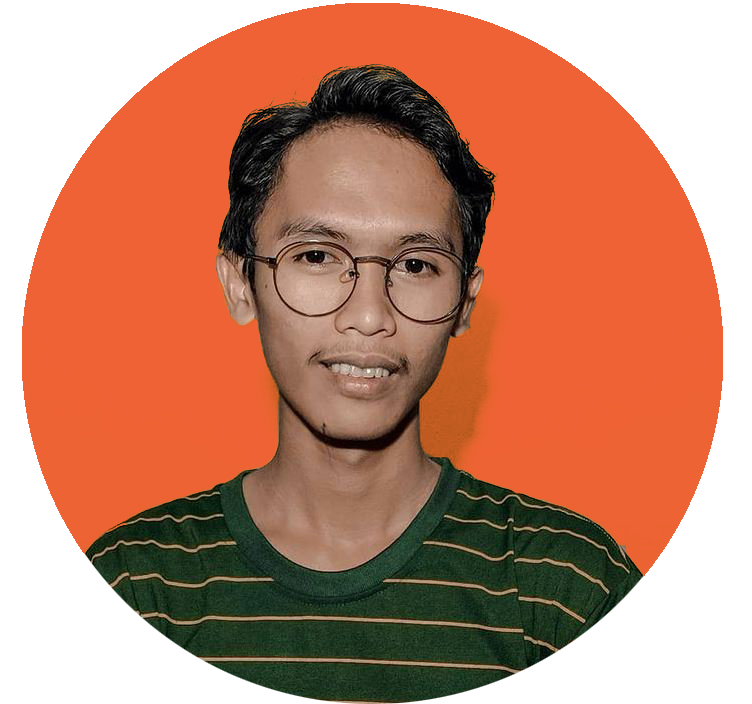
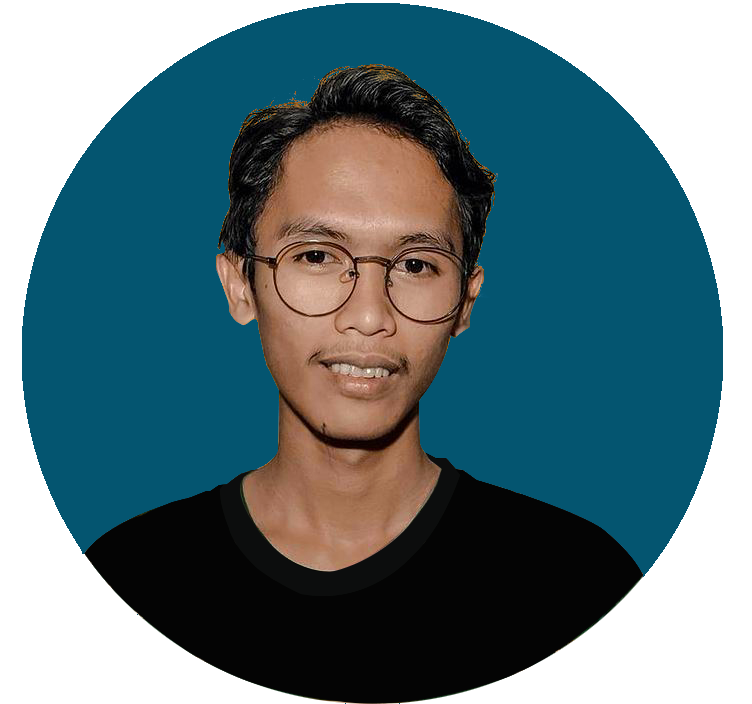
update reza

diff --git a/index.html b/index.html
@@ -34,12 +34,12 @@
                                 <li class="order-sm-first">
                                     <a href="#">
                                         <div class="user-toggle">
-                                            <div class="user-avatar lg">
-                                                <img src="./images/reza2.jpg" alt="">
+                                            <div class="user-avatar lg" style="background-color: white !important;">
+                                                <img src="./images/reza.png" alt="">
                                             </div>
                                             <div class="user-info d-none d-xl-block">
                                                 <div class="user-status">Data Analyst | Devops | Web | Mobile Developer</div>
-                                                <div class="user-name">Reza Darmawan, S.kom</div>
+                                                <div class="user-name text-white">REZA DARMAWAN, S.kom</div>
                                             </div>
                                         </div>
                                     </a>
